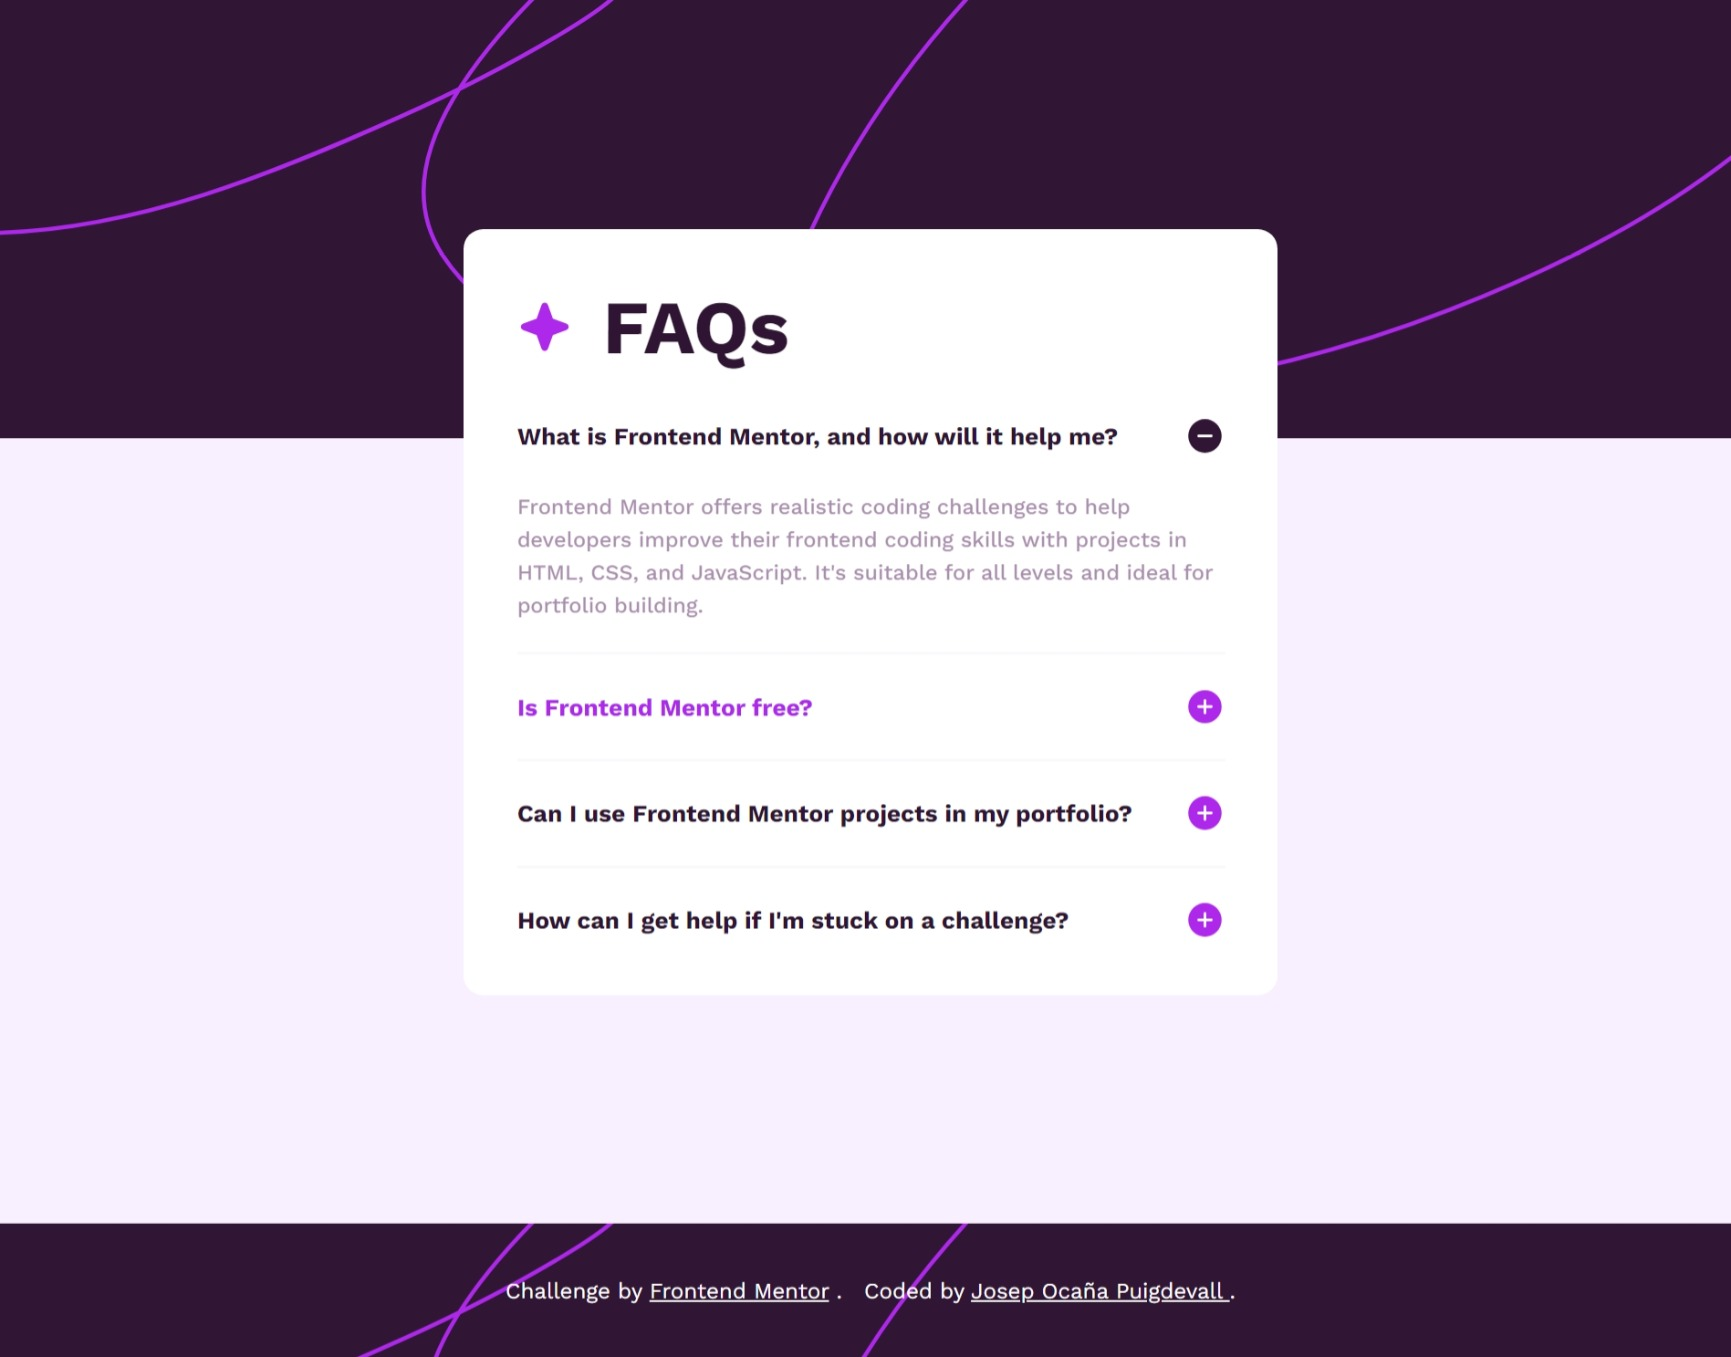
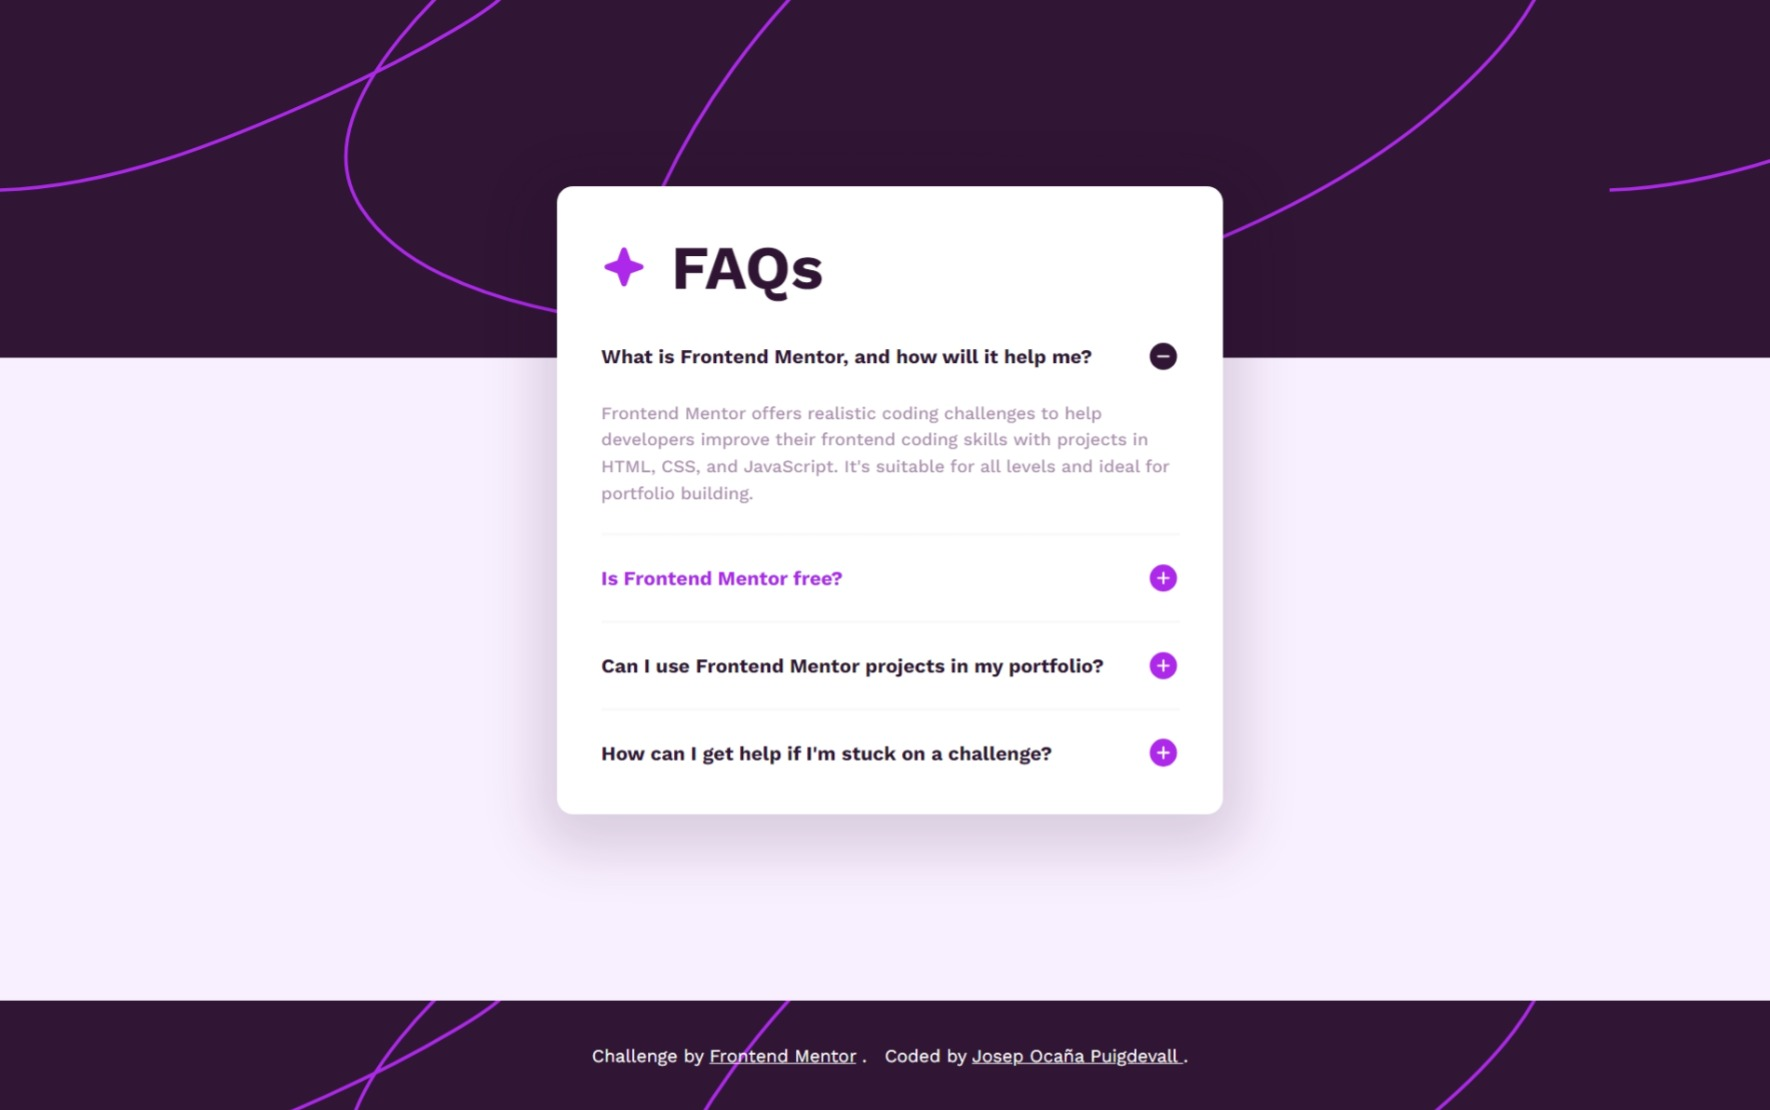
quit prevenDefault and add shadow css

diff --git a/assets/css/styles.css b/assets/css/styles.css
@@ -8,6 +8,7 @@
 	--grayish-purple-border: hsla(294, 16%, 77%, 0.1);
 	--dark-purple: hsl(292, 42%, 14%);
 	--purple: hsl(280.92, 82.98%, 53.92%);
+	--shadow: rgba(42, 7, 44, 0.15);
 }
 
 /* Presets_______________________________________*/
@@ -35,6 +36,7 @@ body {
 	padding: 2.46rem 2.4rem 2.46rem 2.46rem;
 	border-radius: 0.9rem;
 	background: var(--white);
+	box-shadow: 0 15px 50px 18px var(--shadow);
 }
 
 /*  Header ______________________________________*/

diff --git a/assets/js/app.js b/assets/js/app.js
@@ -4,8 +4,6 @@ const button = document.querySelectorAll('.accordion-container-header');
 // Iterate buttons of accordion
 button.forEach(element => {
 	element.addEventListener('click', e => {
-		e.preventDefault();
-
 		const idButton = element.getAttribute('aria-controls');
 		const content = document.getElementById(idButton);
 		const id = idButton.split('-')[2];
